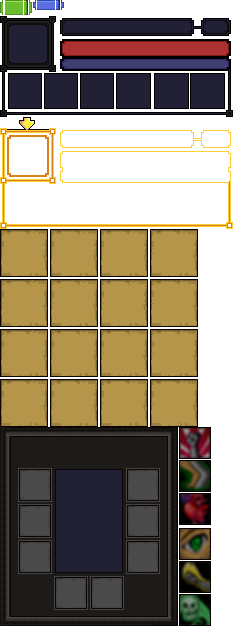
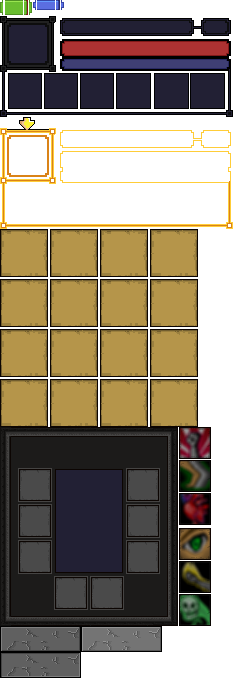
Added buttons

diff --git a/StoneQuest/src/com/barelyconscious/game/entity/gui/widgets/ButtonWidget.java b/StoneQuest/src/com/barelyconscious/game/entity/gui/widgets/ButtonWidget.java
@@ -1,0 +1,86 @@
+package com.barelyconscious.game.entity.gui.widgets;
+
+import com.barelyconscious.game.entity.EventArgs;
+import com.barelyconscious.game.entity.graphics.RenderContext;
+import com.barelyconscious.game.entity.gui.LayoutData;
+import com.barelyconscious.game.entity.gui.MouseInputWidget;
+import com.barelyconscious.game.entity.gui.VDim;
+import com.barelyconscious.game.entity.input.InputLayer;
+import com.barelyconscious.game.entity.resources.GUISpriteSheet;
+import com.barelyconscious.game.entity.resources.Resources;
+import com.barelyconscious.game.entity.resources.WSprite;
+import lombok.SneakyThrows;
+
+import java.awt.event.MouseEvent;
+import java.util.EnumMap;
+import java.util.concurrent.Callable;
+
+public class ButtonWidget extends MouseInputWidget {
+
+    private enum ButtonWidgetState {
+        DEFAULT,
+        MOUSE_DOWN,
+        DISABLED,
+        MOUSE_OVER,
+    }
+
+    private ButtonWidgetState currentState;
+    private final EnumMap<ButtonWidgetState, WSprite> spritesByState;
+    private final TextFieldWidget textWidget;
+    private final SpriteWidget buttonSpriteWidget;
+    private final Callable<Void> onClick;
+
+    public ButtonWidget(LayoutData layout, String text, Callable<Void> onClick) {
+        super(layout, InputLayer.USER_INPUT);
+
+        this.currentState = ButtonWidgetState.DEFAULT;
+        this.onClick = onClick;
+        this.textWidget = new TextFieldWidget(LayoutData.builder()
+            .anchor(new VDim(0, 0.5f, 0, 0))
+            .size(new VDim(1, 1, 0, 0))
+            .build(),
+            text);
+
+        spritesByState = new EnumMap<>(ButtonWidgetState.class) {{
+            put(ButtonWidgetState.DEFAULT, Resources.instance().getSprite(GUISpriteSheet.Resources.BUTTON_DEFAULT));
+            put(ButtonWidgetState.DISABLED, Resources.instance().getSprite(GUISpriteSheet.Resources.BUTTON_DISABLED));
+            put(ButtonWidgetState.MOUSE_OVER, Resources.instance().getSprite(GUISpriteSheet.Resources.BUTTON_OVER));
+            put(ButtonWidgetState.MOUSE_DOWN, Resources.instance().getSprite(GUISpriteSheet.Resources.BUTTON_DOWN));
+        }};
+
+        buttonSpriteWidget = new SpriteWidget(LayoutData.DEFAULT, spritesByState.get(ButtonWidgetState.DEFAULT));
+
+        delegateOnMouseOver.bindDelegate(e -> {
+            currentState = e ? ButtonWidgetState.MOUSE_OVER : ButtonWidgetState.DEFAULT;
+            return null;
+        });
+
+        addWidget(buttonSpriteWidget);
+        addWidget(textWidget);
+    }
+
+    @Override
+    public void onMousePressed(MouseEvent e) {
+        if (isMouseOver()) {
+            currentState = ButtonWidgetState.MOUSE_DOWN;
+        }
+    }
+
+    @SneakyThrows
+    @Override
+    public void onMouseReleased(MouseEvent e) {
+        if (isMouseOver()) {
+            currentState = ButtonWidgetState.MOUSE_OVER;
+            onClick.call();
+        } else if (currentState == ButtonWidgetState.MOUSE_DOWN) {
+            currentState = ButtonWidgetState.DEFAULT;
+            onClick.call();
+        }
+    }
+
+    @Override
+    protected void onRender(EventArgs eventArgs, RenderContext renderContext) {
+        buttonSpriteWidget.setSprite(spritesByState.get(currentState));
+        super.onRender(eventArgs, renderContext);
+    }
+}

diff --git a/StoneQuest/src/com/barelyconscious/game/entity/input/MouseInputHandler.java b/StoneQuest/src/com/barelyconscious/game/entity/input/MouseInputHandler.java
@@ -24,6 +24,7 @@ public class MouseInputHandler implements MouseListener, MouseMotionListener, Mo
 
     public final Delegate<MouseEvent> onMouseClicked = new Delegate<>();
     public final Delegate<MouseEvent> onMouseMoved = new Delegate<>();
+    public final Delegate<MouseEvent> onMousePressed = new Delegate<>();
     public final Delegate<MouseEvent> onMouseReleased = new Delegate<>();
 
     public final Delegate<MouseEvent> onMouseEntered = new Delegate<>();
@@ -55,6 +56,14 @@ public class MouseInputHandler implements MouseListener, MouseMotionListener, Mo
 
     @Override
     public void mousePressed(MouseEvent e) {
+        onMousePressed.call(e);
+        for (final InputLayer layer : InputLayer.sorted()) {
+            for (final Interactable it : interactablesByLayer.get(layer)) {
+                if (it.isInteractableEnabled()) {
+                    it.onMousePressed(e);
+                }
+            }
+        }
     }
 
     @Override
@@ -67,9 +76,14 @@ public class MouseInputHandler implements MouseListener, MouseMotionListener, Mo
             }
 
             for (final Interactable it : interactablesByLayer.get(layer)) {
-                if (it.isInteractableEnabled()) {
+                if (it.isInteractableEnabled() && it.isMouseOver()) {
+                    if (!it.contains(e.getX(), e.getY())) {
+                        it.onMouseExited(e);
+                    }
+
                     isConsumed = it.onMouseClicked(e);
                     if (isConsumed) {
+                        it.onMouseReleased(e);
                         break;
                     }
                 }

diff --git a/StoneQuest/src/com/barelyconscious/game/entity/gui/HeroStatsSheetWidget.java b/StoneQuest/src/com/barelyconscious/game/entity/gui/HeroStatsSheetWidget.java
@@ -3,6 +3,7 @@ package com.barelyconscious.game.entity.gui;
 import com.barelyconscious.game.entity.Hero;
 import com.barelyconscious.game.entity.Stats;
 import com.barelyconscious.game.entity.components.AdjustableValueComponent;
+import com.barelyconscious.game.entity.gui.widgets.ButtonWidget;
 import com.barelyconscious.game.entity.gui.widgets.SpriteWidget;
 import com.barelyconscious.game.entity.gui.widgets.TextFieldWidget;
 import com.barelyconscious.game.entity.gui.widgets.TooltipWidget;
@@ -42,6 +43,20 @@ public class HeroStatsSheetWidget extends MouseInputWidget {
             heroClassText));
 
         createHeroDescriptionTooltipWidget(backdrop);
+
+        addWidget(new ButtonWidget(
+            LayoutData.builder()
+                .anchor(new VDim(1, 0,
+                    -GUISpriteSheet.Resources.BUTTON_DEFAULT.getRegion().getWidth(),
+                    -GUISpriteSheet.Resources.BUTTON_DEFAULT.getRegion().getHeight() - 4))
+                .size(GUISpriteSheet.Resources.BUTTON_DEFAULT)
+                .build(),
+            "Details",
+            () -> {
+                System.out.println("Button clicked");
+                return null;
+            }
+        ));
     }
 
     private void setupStatsWidgets(SpriteWidget backdrop) {

diff --git a/StoneQuest/src/com/barelyconscious/game/entity/gui/LayoutData.java b/StoneQuest/src/com/barelyconscious/game/entity/gui/LayoutData.java
@@ -1,6 +1,7 @@
 package com.barelyconscious.game.entity.gui;
 
-import com.barelyconscious.game.entity.resources.WSprite;
+import com.barelyconscious.game.entity.resources.Region;
+import com.barelyconscious.game.entity.resources.SpriteResource;
 import com.barelyconscious.game.shape.Box;
 import com.barelyconscious.game.shape.Vector;
 import lombok.AllArgsConstructor;
@@ -80,11 +81,19 @@ public final class LayoutData {
 
     public static final class LayoutDataBuilder {
 
-        VDim anchor;
-        VDim size;
+        private VDim anchor;
+        private VDim size;
 
         public LayoutDataBuilder anchor(final VDim anchor) {
             this.anchor = anchor;
+            return this;
+        }
+
+        public LayoutDataBuilder size(final SpriteResource sprite) {
+            Region region = sprite.getRegion();
+            this.size = new VDim(0, 0,
+                region.getWidth(),
+                region.getHeight());
             return this;
         }
 

diff --git a/StoneQuest/src/com/barelyconscious/game/entity/resources/GUISpriteSheet.java b/StoneQuest/src/com/barelyconscious/game/entity/resources/GUISpriteSheet.java
@@ -39,7 +39,13 @@ public final class GUISpriteSheet {
 
         INV_ITEM_SLOT_BACKGROUND(new Region(0, 229, 198, 198)),
 
-        HERO_STAT_SHEET_BACKDROP(new Region(0, 427, 211, 199));
+        HERO_STAT_SHEET_BACKDROP(new Region(0, 427, 211, 199)),
+
+        BUTTON_DEFAULT(new Region(0, 626, 81, 26)),
+        BUTTON_DISABLED(new Region(81, 652, 81, 26)),
+        BUTTON_OVER(new Region(81, 626, 81, 26)),
+        BUTTON_DOWN(new Region(0, 652, 81, 26)),
+        ;
 
         private final Region bounds;
 

diff --git a/StoneQuest/src/com/barelyconscious/game/entity/input/Interactable.java b/StoneQuest/src/com/barelyconscious/game/entity/input/Interactable.java
@@ -39,4 +39,8 @@ public interface Interactable {
     default boolean onMouseExited(MouseEvent e) {
         return false;
     }
+
+    default void onMousePressed(MouseEvent e) { }
+
+    default void onMouseReleased(MouseEvent e) { }
 }
